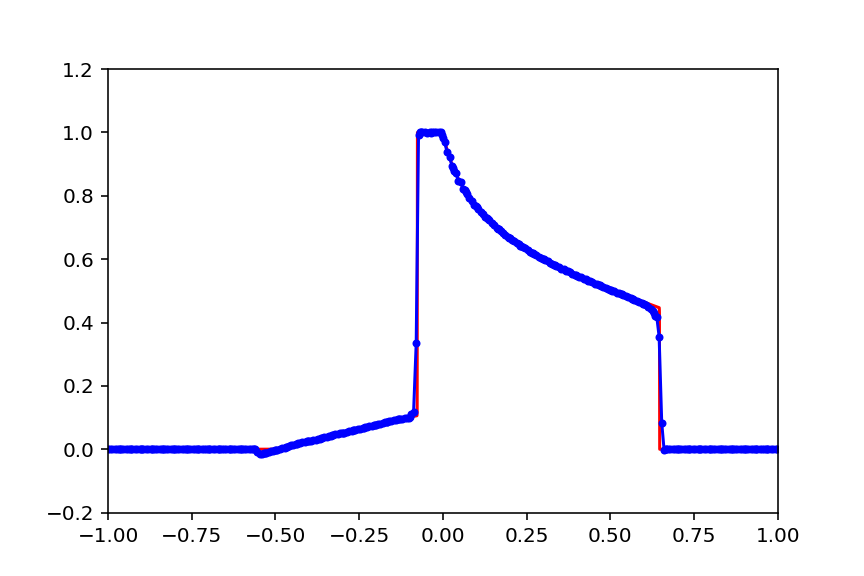
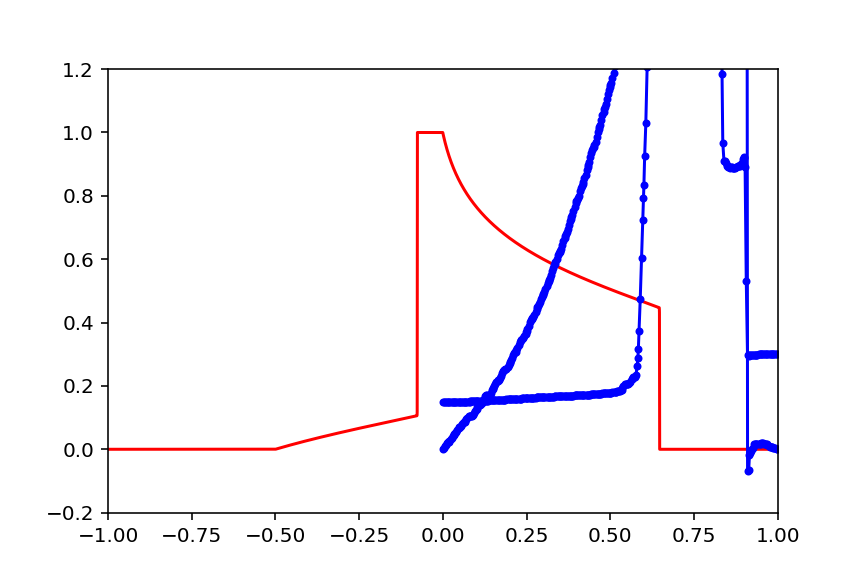
clean

diff --git a/Galerkin_systeme/display.py b/Galerkin_systeme/display.py
@@ -104,7 +104,7 @@ for k in range(0,sm,1):
 
 
 
-if(True):
+if(False):   
     with open('sol_ex/buckley.dat') as f:
         lines = f.readlines()
         
